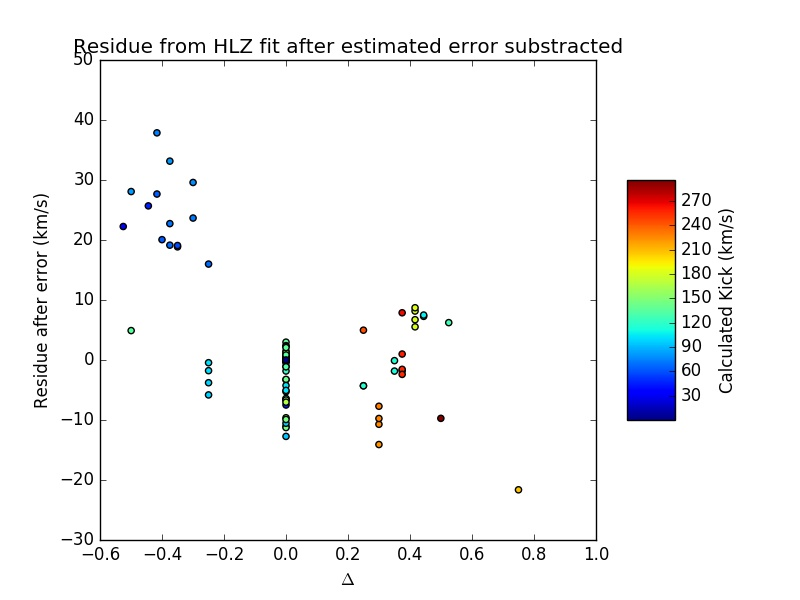
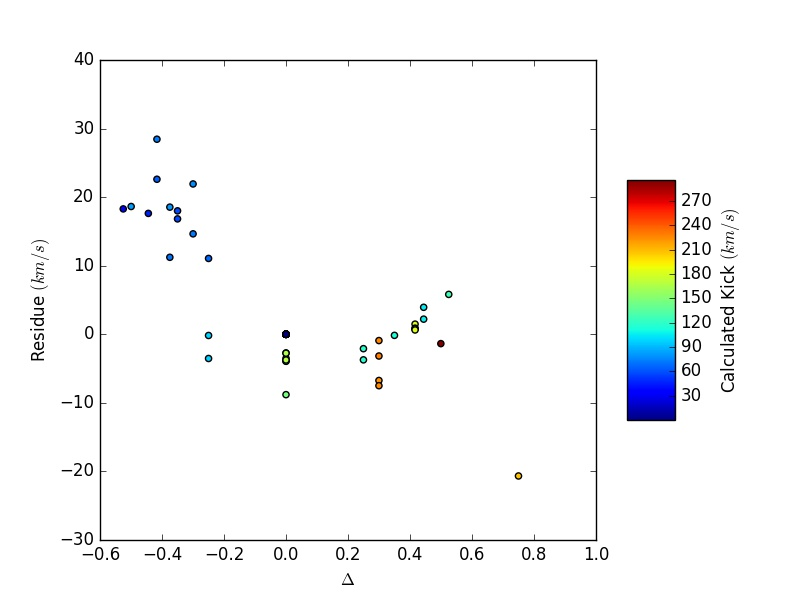
Before copying the codes from Dodo

diff --git a/module/errors.py b/module/errors.py
@@ -68,100 +68,157 @@ class Error():
 		"""Downsamples the data by 2 to estimate errors due to numerical routines"""
 		return sm.Simulation(self.new_path,self.directory,downsample = 2)
 
-	def truncErrorKick(self):
+	def setTruncErrorKick(self):
 		"""Compares the higest resolution with the next highest resolution to 
 		find the difference and returns that value as the error"""		
 		if len(self.res)<2:
-			return 0
+			self.truncErrorKick = 0.0
+			return
 		sim2 =  self.getSecondHighestResolution()
 		kick2 = rq.getKick(sim2)
 		error = np.abs(self.kick - kick2)
-		return error
+		self.truncErrorKick = error
 
-	def truncErrorSpin(self):
+	def setTruncErrorSpin(self):
 		"""Compares the higest resolution with the next highest resolution to 
 		find the difference and returns that value as the error"""		
 		if len(self.res)<2:
-			return 0
+			self.truncErrorSpin = 0.0
+			return
 		sim2 =  self.getSecondHighestResolution()
 		spin2 = rq.getRemnantSpin(sim2)
 		error = np.abs(self.spin - spin2)
-		return error
-	def truncErrorMass(self):
+		self.truncErrorSpin = error
+	def setTruncErrorMass(self):
 		"""Compares the higest resolution with the next highest resolution to 
 		find the difference and returns that value as the error"""		
 		if len(self.res)<2:
-			return 0
+			self.truncErrorMass = 0.0
+			return
 		sim2 =  self.getSecondHighestResolution()
 		mass2 = rq.getRemnantMass(sim2)
 		error = np.abs(self.mass - mass2)
-		return error
+		self.truncErrorMass = error
 
-	def extrapolationErrorKick(self):
+	def setExtrapolationErrorKick(self):
+		"""Compares with the OutermostKick"""
 		simulation2 = self.getOutermostSimulation()
 		kick2 = rq.getKick(simulation2)
 		error = np.abs(self.kick - kick2)
-		return error
-	def extrapolationErrorSpin(self):
+		self.extrapolationErrorKick = error
+	def setExtrapolationErrorSpin(self):
+		"""Compares with the OutermostKick"""
 		simulation2 = self.getOutermostSimulation()
 		spin2 = rq.getRemnantSpin(simulation2)
 		error = np.abs(self.spin - spin2)
-		return error
-	def extrapolationErrorMass(self):
+		self.extrapolationErrorSpin = error
+	def setExtrapolationErrorMass(self):
+		"""Compares with the OutermostKick"""
 		simulation2 = self.getOutermostSimulation()
 		mass2 = rq.getRemnantMass(simulation2)
 		error = np.abs(self.mass - mass2)
-		return error
+		self.extrapolationErrorMass = error
 
 
-	def limitedModesErrorKick(self):		
+	def setLimitedModesErrorKick(self):	
+		"""Takes Ylm modes till l = 7 and compares with l=8"""	
 		kick2 = rq.getKick(self.simulation,7)
 		error = np.abs(self.kick - kick2)
-		return error
-	def limitedModesErrorSpin(self):		
+		self.limitedModesErrorKick = error
+	def setLimitedModesErrorSpin(self):
+		"""Takes Ylm modes till l = 7 and compares with l=8"""			
 		spin2 = rq.getRemnantSpin(self.simulation,7)
 		error = np.abs(self.spin - spin2)
-		return error
-	def limitedModesErrorMass(self):		
+		self.limitedModesErrorSpin = error
+	def setLimitedModesErrorMass(self):
+		"""Takes Ylm modes till l = 7 and compares with l=8"""			
 		mass2 = rq.getRemnantMass(self.simulation,7)
 		error = np.abs(self.mass - mass2)
-		return error
+		self.limitedModesErrorMass = error
 
-	def junkErrorKick(self):
+	def setJunkErrorKick(self):
+		"""Finds the value by doing the integration before the relaxed time as well 
+			and quotes the difference"""
 		simulation2 = self.getRelaxedTimeSimulation()
 		kick2 = rq.getKick(simulation2)
 		error = np.abs(self.kick - kick2)
-		return error
-	def junkErrorSpin(self):
+		self.junkErrorKick = error
+	def setJunkErrorSpin(self):
+		"""Finds the value by doing the integration before the relaxed time as well 
+			and quotes the difference"""
 		simulation2 = self.getRelaxedTimeSimulation()
 		spin2 = rq.getRemnantSpin(simulation2)
 		error = np.abs(self.spin - spin2)
-		return error
-	def junkErrorMass(self):
+		self.junkErrorSpin = error
+	def setJunkErrorMass(self):
+		"""Finds the value by doing the integration before the relaxed time as well 
+			and quotes the difference"""
 		simulation2 = self.getRelaxedTimeSimulation()
 		mass2 = rq.getRemnantMass(simulation2)
 		error = np.abs(self.mass - mass2)
-		return error
+		self.junkErrorMass = error
 
 
-	def downSampleErrorKick(self):
+	def setDownSampleErrorKick(self):
+		"""Divides the time resolution by a factor of 2 and compares the result"""
 		simulation2 = self.getDownsampledSimulation()
 		kick2 = rq.getKick(simulation2)
 		error = np.abs(self.kick-kick2)
-		return error
-	def downSampleErrorSpin(self):
+		self.downSampleErrorKick = error
+	def setDownSampleErrorSpin(self):
+		"""Divides the time resolution by a factor of 2 and compares the result"""
 		simulation2 = self.getDownsampledSimulation()
 		spin2 = rq.getRemnantSpin(simulation2)
 		error = np.abs(self.spin-spin2)
-		return error
-	def downSampleErrorMass(self):
+		self.downSampleErrorSpin = error
+	def setDownSampleErrorMass(self):
+		"""Divides the time resolution by a factor of 2 and compares the result"""
 		simulation2 = self.getDownsampledSimulation()
 		mass2 = rq.getRemnantMass(simulation2)
 		error = np.abs(self.mass-mass2)
-		return error
+		self.downSampleErrorMass = error
+	
+	def setTotalErrorKick(self):
+		"""Adds the errors in quadrature"""
+		self.totalErrorKick = rq.errorQuadrature(np.array([self.truncErrorKick,self.extrapolationErrorKick,self.limitedModesErrorKick,
+			self.junkErrorKick,self.downSampleErrorKick]))
+	def setTotalErrorSpin(self):
+		"""Adds the errors in quadrature"""
+		self.totalErrorSpin = rq.errorQuadrature([self.truncErrorSpin,self.extrapolationErrorSpin,self.limitedModesErrorSpin,
+			self.junkErrorSpin,self.downSampleErrorSpin])
+	def setTotalErrorMass(self):
+		"""Adds the errors in quadrature"""
+		self.totalErrorMass = rq.errorQuadrature([self.truncErrorMass,self.extrapolationErrorMass,self.limitedModesErrorMass,
+			self.junkErrorMass,self.downSampleErrorMass])
 
+	def setKickErrors(self):
+		self.setTruncErrorKick()
+		self.setExtrapolationErrorKick()
+		self.setLimitedModesErrorKick()
+		self.setJunkErrorKick()
+		self.setDownSampleErrorKick()
+		self.setTotalErrorKick()
+	
+	def setSpinErrors(self):
+		self.setTruncErrorSpin()
+		self.setExtrapolationErrorSpin()
+		self.setLimitedModesErrorSpin()
+		self.setJunkErrorSpin()
+		self.setDownSampleErrorSpin()
+		self.setTotalErrorSpin()
 
+	def setMassErrors(self):
+		self.setTruncErrorMass()
+		self.setExtrapolationErrorMass()
+		self.setLimitedModesErrorMass()
+		self.setJunkErrorMass()
+		self.setDownSampleErrorMass()
+		self.setTotalErrorMass()
 
+	def setErrors(self):
+		self.setKickErrors()
+		self.setSpinErrors()
+		self.setMassErrors()
 	
 
 

diff --git a/module/Kick.py b/module/Kick.py
@@ -29,15 +29,13 @@ for file in data:
     err = errors.Error(path,directory)
     sim = err.getHighResSim()
     Name = sim.metadata.simulation_name
-    Alt_name_list = sim.metadata.alt_name
+    Alt_name = sim.metadata.alt_name
     err.setKick()
     err.setSpin()
     err.setMass()
+    err.setErrors()
 
 
-    for name in Alt_name_list:
-        if name.startswith('SXS'):
-            Alt_name = name
     q = sim.metadata.initial_mass1/sim.metadata.initial_mass2
     S1 = sim.metadata.relaxed_spin1/(sim.metadata.relaxed_mass1**2)
     S2 = sim.metadata.relaxed_spin2/(sim.metadata.relaxed_mass2**2)
@@ -62,26 +60,26 @@ for file in data:
                                                                             relaxed_eccentricity,no_of_orbits))
     
     
-    spin_error = [[err.truncErrorSpin(),'Truncation'],[err.limitedModesErrorSpin(),'Limited Modes'],
-                  [err.extrapolationErrorSpin(),'Extrapolation'],[err.junkErrorSpin(),'Junk Radiation']
-                  ,[err.downSampleErrorSpin(),'Downsampling']]
-    total_spin_error = rq.errorQuadrature(spin_error)/(sim.metadata.remnant_mass ** 2)
+    spin_error = [[err.truncErrorSpin,'Truncation'],[err.limitedModesErrorSpin,'Limited Modes'],
+                  [err.extrapolationErrorSpin,'Extrapolation'],[err.junkErrorSpin,'Junk Radiation']
+                  ,[err.downSampleErrorSpin,'Downsampling']]
+    total_spin_error = err.totalErrorSpin/(sim.metadata.remnant_mass**2)
     
-    mass_error = [[err.truncErrorMass(),'Truncation'],[err.limitedModesErrorMass(),'Limited Modes'],
-                  [err.extrapolationErrorMass(),'Extrapolation'],[err.junkErrorMass(),'Junk Radiation']
-                  ,[err.downSampleErrorMass(),'Downsampling']]
-    total_mass_error = rq.errorQuadrature(mass_error)
+    mass_error = [[err.truncErrorMass,'Truncation'],[err.limitedModesErrorMass,'Limited Modes'],
+                  [err.extrapolationErrorMass,'Extrapolation'],[err.junkErrorMass,'Junk Radiation']
+                  ,[err.downSampleErrorMass,'Downsampling']]
+    total_mass_error = err.totalErrorMass
 
-    V_trunc = err.truncErrorKick()
-    V_mode = err.limitedModesErrorKick()
-    V_extrap = err.extrapolationErrorKick()
-    V_junk = err.junkErrorKick()
-    V_downsample = err.downSampleErrorKick()
+    V_trunc = err.truncErrorKick
+    V_mode = err.limitedModesErrorKick
+    V_extrap = err.extrapolationErrorKick
+    V_junk = err.junkErrorKick
+    V_downsample = err.downSampleErrorKick
     
     kick_error = [[V_trunc,'Truncation'],[V_mode,'Limited Modes'],
                   [V_extrap,'Extrapolation'],[V_junk,'Junk Radiation']
                   ,[V_downsample,'Downsampling']]
-    total_kick_error = rq.errorQuadrature(kick_error)
+    total_kick_error = err.totalErrorKick
     
     spin_error = sorted(spin_error)
     mass_error = sorted(mass_error)

diff --git a/module/remnant_quantities.py b/module/remnant_quantities.py
@@ -7,10 +7,14 @@ def errorQuadrature(errors):
 	"""Considers Error Estimates to be independent"""
 	Total_Error = 0.0
 	for i in errors:
-		Total_Error = Total_Error + i[0]*i[0]
+		Total_Error = Total_Error + i*i
 	return np.sqrt(Total_Error)
 
 def getRemnantMass(Sim,lmax=8):
+	"""This functions calculates the radiated energy from eq (3.8) of Ruiz et al. arXiv:0707.4654 and subtracts to from
+		the initial ADM total Energy to find the Remnant Mass.
+
+		Sim is the simulaton to be passed and lmax is the max Ylm mode to be considered""" 
 	de = 0
 	for l in range(2,lmax+1):
 		for m in range(-l,l+1):
@@ -21,10 +25,14 @@ def getRemnantMass(Sim,lmax=8):
 	return final_mass
 
 def getRemnantSpin(Sim,lmax=8):
-	
+	"""Returns the Magnitude of the Remnant Spin"""
 	return norm(getRemnantSpinComponents(Sim,lmax))
 
 def getRemnantSpinComponents(Sim,lmax=8):
+	"""This functions calculates the radiated angular momentum from eqs (3.22), (3.23) and (3.24) of Ruiz et al. arXiv:0707.4654 
+		and subtracts to from the initial ADM angular momentum to find the Remnant Spin Components.
+
+		Sim is the simulaton to be passed and lmax is the max Ylm mode to be considered""" 	
 	def f(l,m):
 		return np.sqrt((l-m)*(l+m+1))
 	djx = (0+0j)
@@ -43,7 +51,11 @@ def getRemnantSpinComponents(Sim,lmax=8):
 	final_spin = Sim.metadata.initial_j - Radiated_J
 	return final_spin	
 
-def getKick(Sim, lmax=8):
+def getKickComponents(Sim, lmax=8):
+	"""This functions calculates the radiated linear momentum from eqs (3.14) and (3.15) of Ruiz et al. arXiv:0707.4654 
+		and uses to to calculated to final kick components.
+
+		Sim is the simulaton to be passed and lmax is the max Ylm mode to be considered""" 		
 	speed_of_light = 299792.458
 	def a(l,m):
 		return np.sqrt((1.0+0.0j)*(l-m)*(l+m+1.0))/(l*(l+1.0))
@@ -67,6 +79,7 @@ def getKick(Sim, lmax=8):
 	P = np.array([PX,PY,PZ])
 	Radiated_P = np.array([PX[-1],PY[-1],PZ[-1]])
 	Kick = -1 * Radiated_P/Sim.metadata.remnant_mass * speed_of_light
-	#return Kick
-	#return [norm(Kick),Kick]
-	return norm(Kick)
+	return Kick
+def getKick(Sim,lmax=8):
+	"""Returns the magnitude of the Kick"""
+	return norm(getKickComponents(Sim,lmax))

diff --git a/hlz_residue.py b/hlz_residue.py
@@ -29,12 +29,12 @@ KICK = np.array([])
 ETA = np.array([])
 DELTA = np.array([])
 for i in range(len(q)):
-	if kick_error[i] < np.abs(kick_deviation_fit[i]) or True:
-		#	if kick_deviation_fit[i]<0:
-			#err = np.append(err , kick_deviation_fit[i] + kick_error[i])
-		#else:
-			#err = np.append(err,kick_deviation_fit[i] - kick_error[i])
-		err = np.append(err,kick_deviation_fit[i])
+	if kick_error[i] < np.abs(kick_deviation_fit[i]):
+		if kick_deviation_fit[i]<0:
+			err = np.append(err , kick_deviation_fit[i] + kick_error[i])
+		else:
+			err = np.append(err,kick_deviation_fit[i] - kick_error[i])
+		#err = np.append(err,kick_deviation_fit[i])
 		KICK = np.append(KICK,kick[i])
 		ETA = np.append(ETA,eta[i])
 		DELTA = np.append(DELTA,delta[i])
@@ -42,18 +42,18 @@ for i in range(len(q)):
 plt.figure(1)
 surf = plt.scatter(ETA,err,c = KICK, marker = 'o')
 plt.xlabel(r'$\eta$')
-plt.ylabel('Residue after error (km/s)')
-plt.title('Residue from HLZ fit after estimated error substracted')
-plt.colorbar(surf, shrink=0.5, aspect=5,label = 'Calculated Kick (km/s)')
+plt.ylabel('Residue $(km/s)$')
+#plt.title('Residue from HLZ fit after estimated error substracted')
+plt.colorbar(surf, shrink=0.5, aspect=5,label = 'Calculated Kick $(km/s)$')
 plt.savefig('HLZ_eta.jpg')
 #plt.plot(eta,kick_deviation_fit,line)
 plt.show()
 plt.figure(2)
 surf = plt.scatter(DELTA,err,c = KICK, marker = 'o')
 plt.xlabel(r'$\Delta$')
-plt.ylabel('Residue after error (km/s)')
-plt.title('Residue from HLZ fit after estimated error substracted')
-plt.colorbar(surf, shrink=0.5, aspect=5,label = 'Calculated Kick (km/s)')
+plt.ylabel('Residue $(km/s)$')
+#plt.title('Residue from HLZ fit after estimated error substracted')
+plt.colorbar(surf, shrink=0.5, aspect=5,label = 'Calculated Kick $(km/s)$')
 plt.savefig('HLZ_delta.jpg')
 #plt.plot(eta,kick_deviation_fit,line)
 plt.show()
